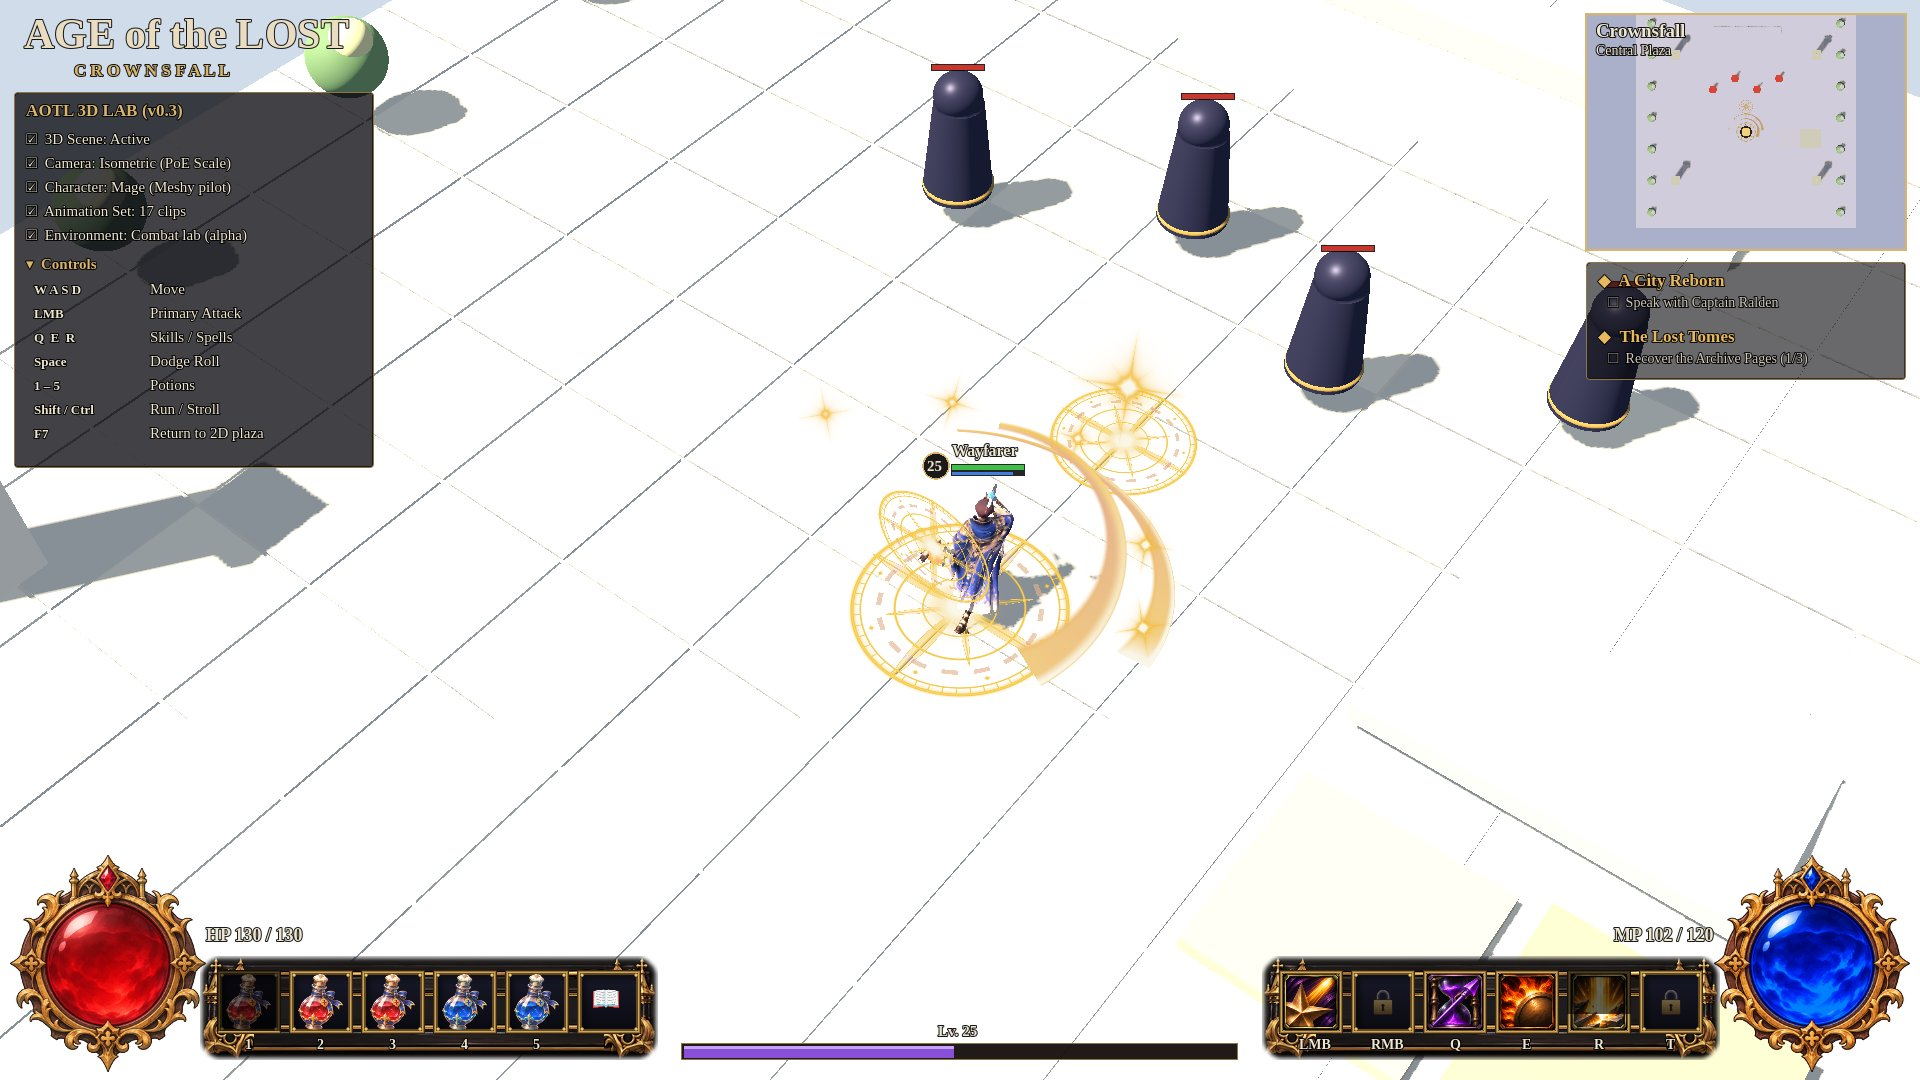
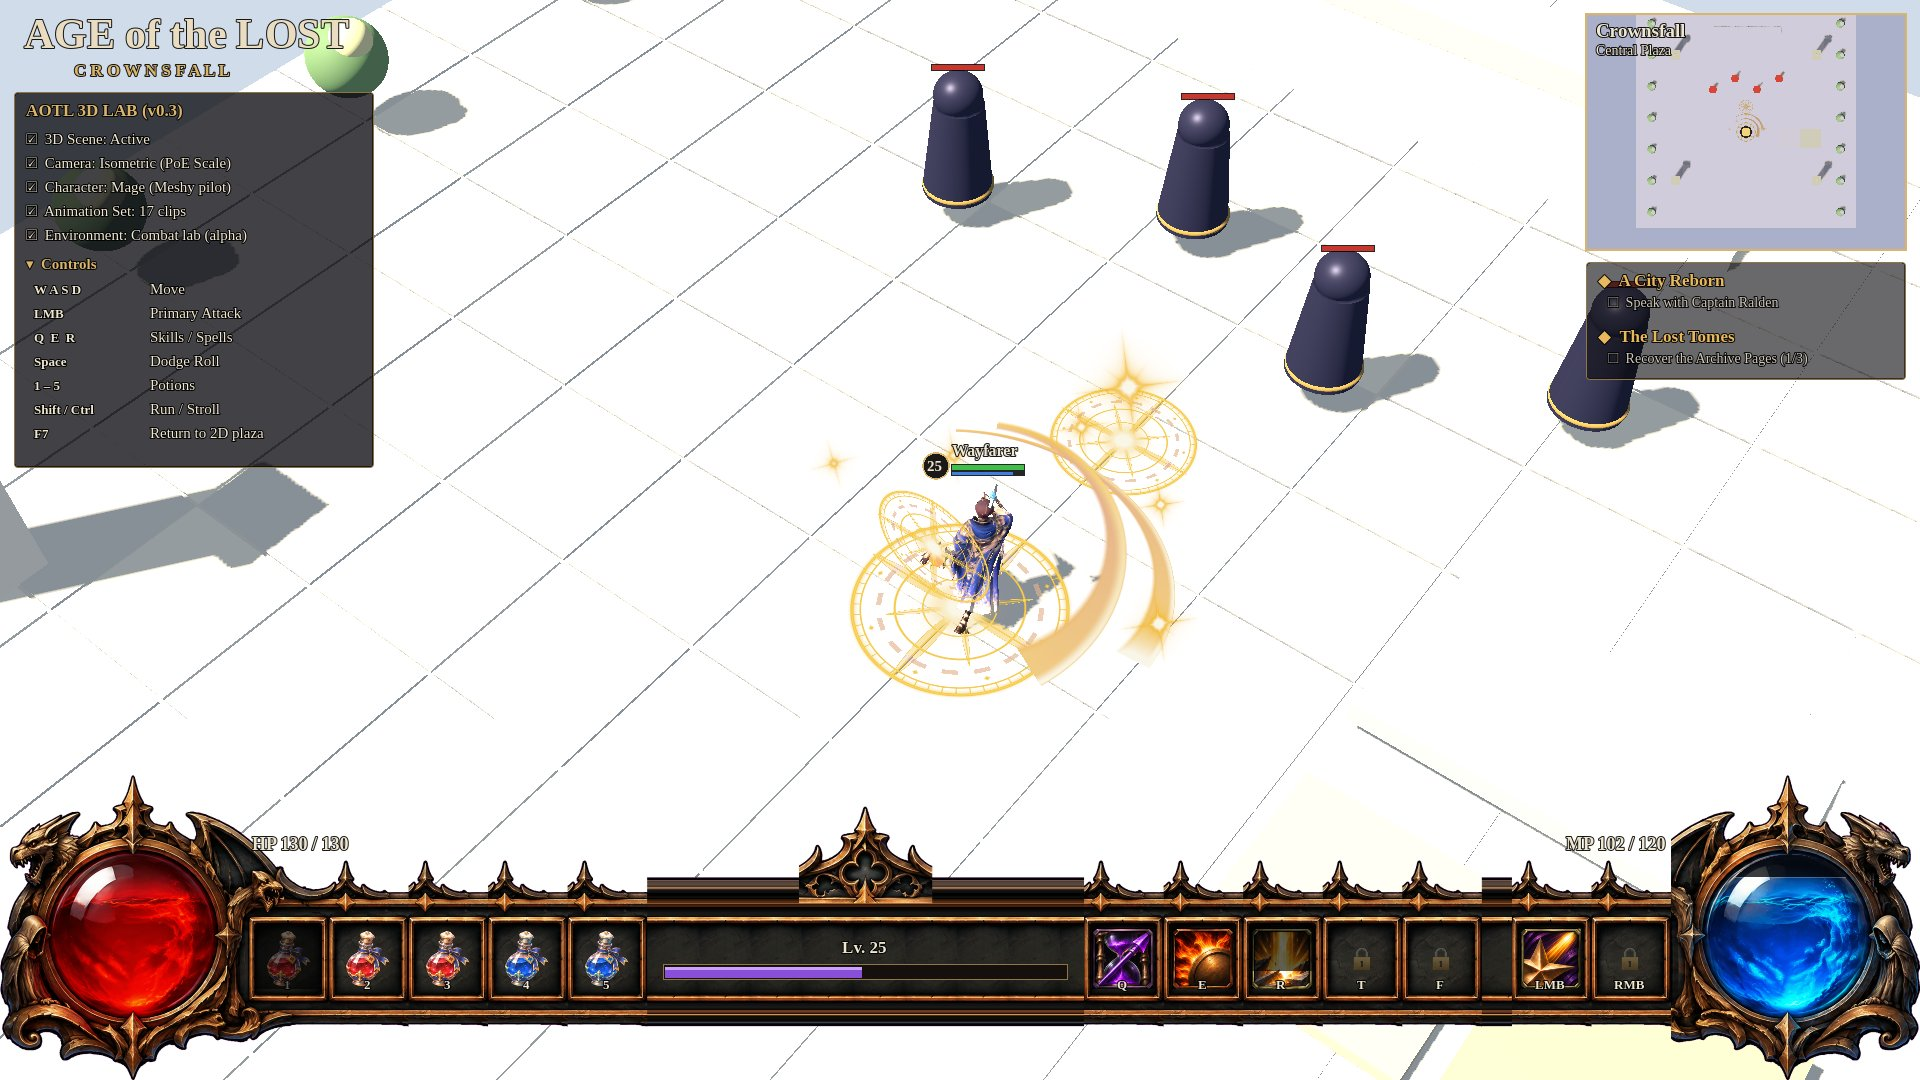
ARPG HUD: edge-to-edge bottom frame anchored to both screen sides
Owner feedback: the bottom HUD floated instead of spanning the screen.
Now one frame (the 2D game's hud_frame.png + slot map) anchored left,
right and bottom and scaled to the viewport: life orb flush bottom-left,
5 potion sockets, Lv/XP centre panel, 7 skill sockets, mana orb flush
bottom-right. Painted orbs shade from the top as HP/MP drop. Hero
measures 100 px at 1080p. Tests: arpg_hud 40/40, regression 994/994.

Claude-Session: https://claude.ai/code/session_01HXUneWBipxvB69FSMXEcEC

diff --git a/game/crownsfall_lootslice/docs/ARPG_HUD_QA_2026-11-20.md b/game/crownsfall_lootslice/docs/ARPG_HUD_QA_2026-11-20.md
@@ -31,3 +31,11 @@ Tests: `tests/verify_arpg_hud.gd` 35/35; mage 83/83; knight lab 29/29; armed kni
 
 Not yet: the lab is still a white test floor, not the Crownsfall plaza of the mockup; HUD is laid out for
 1920×1080 (no resolution scaling yet); XP/level are cosmetic.
+
+## Revision 2 (owner feedback: "no empty space between the left and right screen borders … anchored to the sides")
+- Bottom HUD is now one edge-to-edge frame (`hud_frame.png` from the 2D game, slot map `hud_frame.json`), anchored
+  left/right/bottom and scaled to the viewport width: life orb flush in the bottom-left corner, 5 potion sockets,
+  centre panel with "Lv. 25" + XP bar, 7 skill sockets (Q E R T F | LMB RMB), mana orb flush bottom-right.
+- The frame's painted orbs are darkened from the top as HP/MP drop (circular-segment shade + surface line).
+- Camera: measured hero height **100 px** at 1080p (knight standing, head_end 1.69 m) with the existing pilot camera.
+- Tests: `verify_arpg_hud.gd` 40/40 (adds anchoring, full-width, bottom-edge, corner-orb and socket-count checks).

diff --git a/game/crownsfall_lootslice/assets/ui/arpg_hud/README.md b/game/crownsfall_lootslice/assets/ui/arpg_hud/README.md
@@ -2,3 +2,4 @@
 Copied from the 2D Crownfall HUD (`crownfall/assets/ui`, branch `claude/import-crownfall-godot`) — existing
 owner-approved art, no generation. `potion_mana.png` is `potion.png` with the red liquid recoloured blue (PIL).
 Layout follows the owner's HUD mockup ("AOTL 2.5D LAB v0.2", 2026-11-20; see `art/references/2026-11-20/README.md`).
+hud_frame.png / hud_frame.json: the 2D game's edge-to-edge bottom frame (same source).
